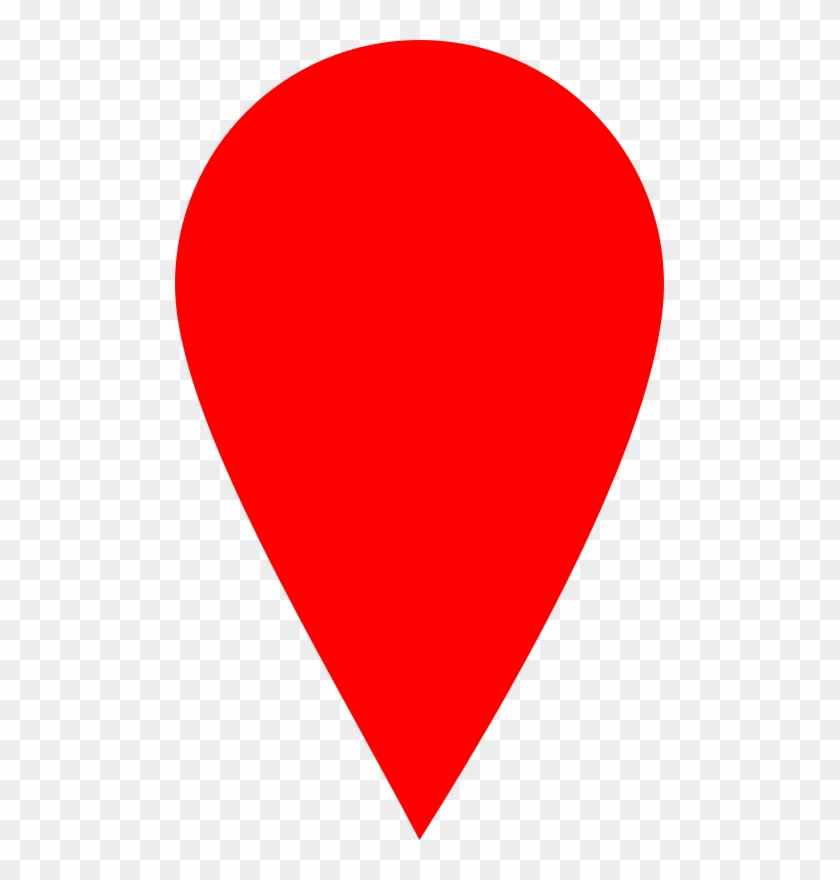
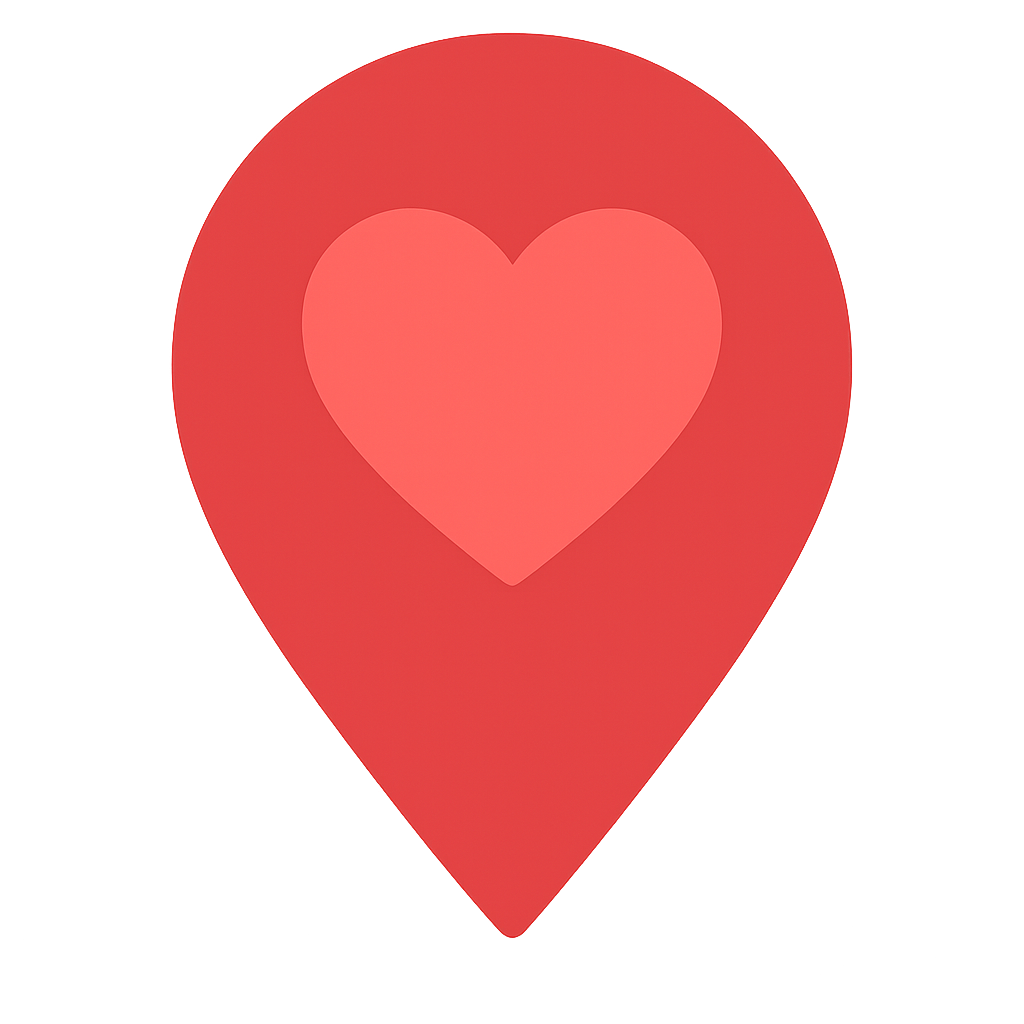
Some basic marker changes to make things a bit prettier

diff --git a/client/src/Components/MapView.js b/client/src/Components/MapView.js
@@ -16,6 +16,17 @@ const redIcon = new L.Icon({
   shadowSize: [41, 41],
 });
 
+// Custom blue icon for the center marker
+const blueIcon = new L.Icon({
+  iconUrl: require('../SPES_Heart.png'),
+  iconRetinaUrl: require('leaflet/dist/images/marker-icon-2x.png'),
+  iconSize: [25, 41],
+  iconAnchor: [12, 41],
+  popupAnchor: [1, -34],
+  shadowUrl: require('leaflet/dist/images/marker-shadow.png'),
+  shadowSize: [41, 41],
+});
+
 delete L.Icon.Default.prototype._getIconUrl;
 L.Icon.Default.mergeOptions({
   iconRetinaUrl: require('leaflet/dist/images/marker-icon-2x.png'),
@@ -201,7 +212,7 @@ function MapView() {
           url="https://{s}.basemaps.cartocdn.com/light_all/{z}/{x}/{y}{r}.png"
         />
 
-        <Marker position={mapCenter}>
+        <Marker position={mapCenter} icon={blueIcon}>
           <Tooltip direction="top" offset={[0, -10]} opacity={1}>
             {locationName}
           </Tooltip>
@@ -258,7 +269,7 @@ function MapView() {
                 </button>
               ))}
             </div>
-            
+
             <textarea
               rows={6}
               style={{ width: '100%', boxSizing: 'border-box' }}
